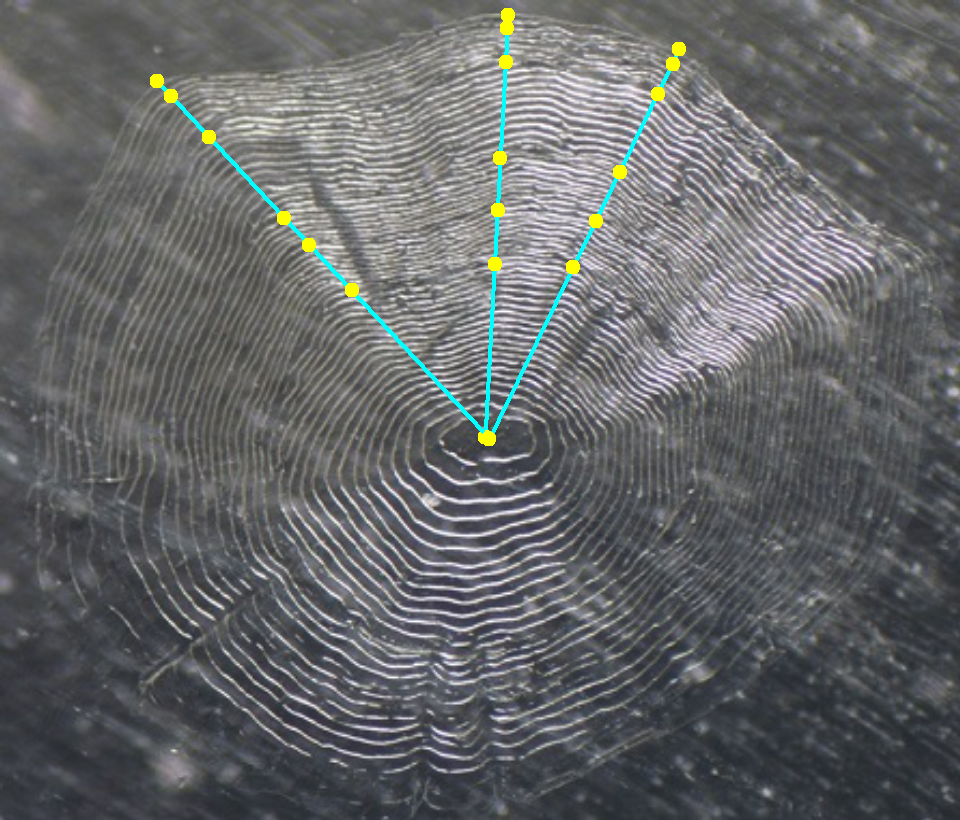
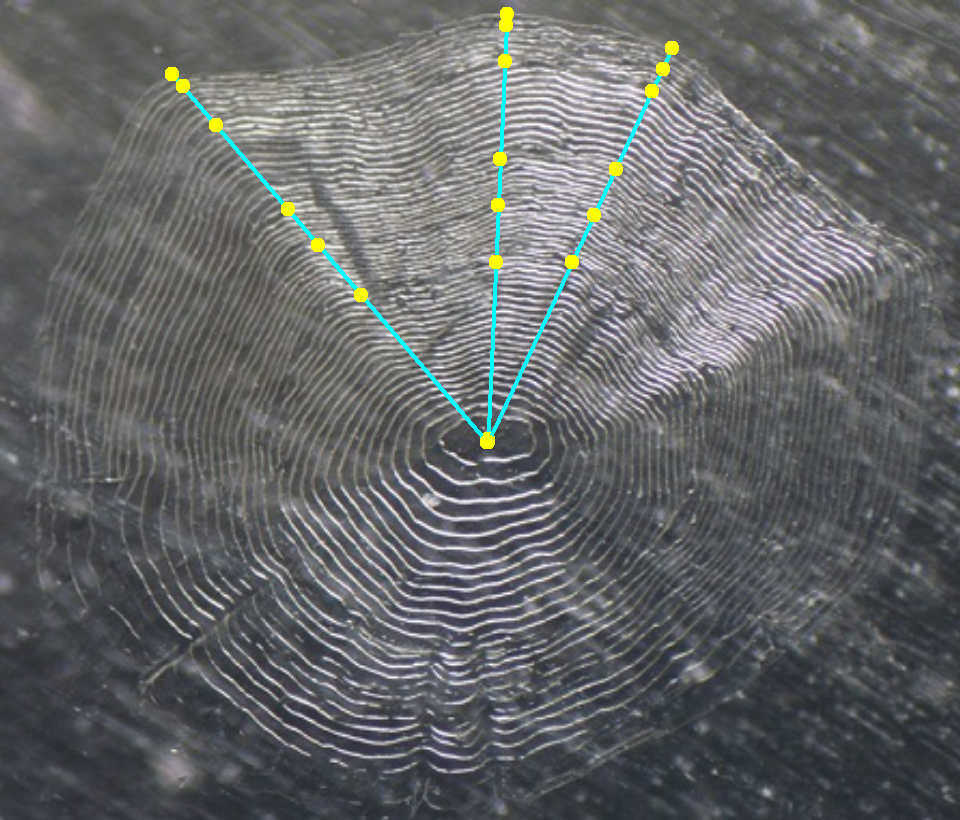
Updated CollectRadii vignette and webpage

diff --git a/docs/articles/MeasureRadii/collectRadiiData.html b/docs/articles/MeasureRadii/collectRadiiData.html
@@ -95,7 +95,7 @@
       <h1>Collect radial measurements from a calcified structure by interactively selecting annuli</h1>
                         <h4 class="author">Derek H. Ogle</h4>
             
-            <h4 class="date">2018-06-10</h4>
+            <h4 class="date">2018-06-12</h4>
       
       
       <div class="hidden name"><code>collectRadiiData.Rmd</code></div>
@@ -182,8 +182,6 @@
 <li>
 <code>description=</code>: Detailed description about the structure. This will be saved in the R data file and could be extracted in the future. For example, one may use <code>description="Kiyi scale read once by Ogle on 22-Apr-18"</code> to provide more information about the structure reading.</li>
 <li>
-<code>sepWindow=</code>: A logical that indicates whether the image should be opened in a separate window (<code>sepWindow=TRUE</code>) or not (<code>sepWindow=FALSE</code>). The default is <code>sepWindow=TRUE</code>, as opening the image in a separate window allows it to conform to its native aspect ratio, which is important when meausuring distances on the image.</li>
-<li>
 <code>windowSize=</code>: A value that sets the size of the separate window (only used if <code>sepWindow=TRUE</code>). This value will become the larger of the two dimensions, with the other value proportionate so that the original aspect ratio is maintained. Use <code>windowSize=</code> to “zoom in” on an image. Note that the default is <code>windowSize=7</code>; so values larger than 7 represent a “zooming in.”</li>
 </ul>
 <p>Finally, note that the R data file that will be created after the annuli have been selected will have the same name as the image file<a href="#fn7" class="footnoteRef" id="fnref7"><sup>7</sup></a> but including the suffix optionally provided in <code>suffix=</code>. If nothing is given in <code>suffix=</code>, then a suffix will be created from <code>reading=</code> (if it exists). For example, if the structure image file was named “Scale_1.jpg”, then the resultant R data file will be named “Scale_1_DHO.rds” if <code>reading="DHO"</code> or “Scale_1_TESTING.rds” if <code>reading="DHO"</code> and <code>suffix="TESTING"</code>.</p>
@@ -229,7 +227,7 @@
 <img src="figures/oto140306_D.jpg">
 </div>
 <p> </p>
-<p>When you have finished selecting points, information about your selections, including the calculated radial measurements, are saved to the R data file. The contents of this file are described further <a href="http://derekogle.com/RFishBC/reference/digitizeRadii.html#value">here</a>.</p>
+<p>When you have finished selecting points, the image window is closed<a href="#fn12" class="footnoteRef" id="fnref12"><sup>12</sup></a> and information about your selections, including the calculated radial measurements, are saved to the R data file. The contents of this file are described further <a href="http://derekogle.com/RFishBC/reference/digitizeRadii.html#value">here</a>.</p>
 <p> </p>
 <p> </p>
 <hr>
@@ -257,20 +255,20 @@
 <div id="data-from-one-structure" class="section level1">
 <h1 class="hasAnchor">
 <a href="#data-from-one-structure" class="anchor"></a>Data from One Structure</h1>
-<p>The radial measurements from one structure may be seen by submitting the R data file name to <code><a href="../../reference/combineData.html">combineData()</a></code>.<a href="#fn12" class="footnoteRef" id="fnref12"><sup>12</sup></a> Note that by default the radial measurement that includes the “plus-growth” will be omitted (as this radial measurement is equal to the total radial measurement and is thus redundant). To include the radial measurement with “plus-growth” then use <code>deletePlusGrowth=FALSE</code>.</p>
+<p>The radial measurements from one structure may be seen by submitting the R data file name to <code><a href="../../reference/combineData.html">combineData()</a></code>.<a href="#fn13" class="footnoteRef" id="fnref13"><sup>13</sup></a> Note that by default the radial measurement that includes the “plus-growth” will be omitted (as this radial measurement is equal to the total radial measurement and is thus redundant). To include the radial measurement with “plus-growth” then use <code>deletePlusGrowth=FALSE</code>.</p>
 <div class="sourceCode"><pre class="sourceCode r"><code class="sourceCode r"><span class="kw"><a href="../../reference/combineData.html">combineData</a></span>(<span class="st">"Scale_1_DHO.rds"</span>)
 <span class="co">#&gt;   id reading agecap ann       rad    radcap</span>
-<span class="co">#&gt; 1  1     DHO      5   1 0.2111413 0.5146925</span>
-<span class="co">#&gt; 2  1     DHO      5   2 0.2773676 0.5146925</span>
-<span class="co">#&gt; 3  1     DHO      5   3 0.3402496 0.5146925</span>
-<span class="co">#&gt; 4  1     DHO      5   4 0.4571022 0.5146925</span>
-<span class="co">#&gt; 5  1     DHO      5   5 0.4989547 0.5146925</span></code></pre></div>
+<span class="co">#&gt; 1  1     DHO      5   1 0.2162106 0.5196574</span>
+<span class="co">#&gt; 2  1     DHO      5   2 0.2859774 0.5196574</span>
+<span class="co">#&gt; 3  1     DHO      5   3 0.3418130 0.5196574</span>
+<span class="co">#&gt; 4  1     DHO      5   4 0.4620804 0.5196574</span>
+<span class="co">#&gt; 5  1     DHO      5   5 0.5056708 0.5196574</span></code></pre></div>
 <p>By default the data are shown in “long” format where each row consists of one radial measurement and all radial measurements for an individual fish are distributed across several rows. The radial data can be shown in “wide” format where each rows consists of all the radial measurements (in separate columns) for an individual fish by including <code>outFormat="wide"</code>.</p>
 <div class="sourceCode"><pre class="sourceCode r"><code class="sourceCode r"><span class="kw"><a href="../../reference/combineData.html">combineData</a></span>(<span class="st">"Scale_1_DHO.rds"</span>,<span class="dt">outFormat=</span><span class="st">"wide"</span>)
-<span class="co">#&gt;   id reading agecap    radcap      rad1      rad2      rad3      rad4</span>
-<span class="co">#&gt; 1  1     DHO      5 0.5146925 0.2111413 0.2773676 0.3402496 0.4571022</span>
+<span class="co">#&gt;   id reading agecap    radcap      rad1      rad2     rad3      rad4</span>
+<span class="co">#&gt; 1  1     DHO      5 0.5196574 0.2162106 0.2859774 0.341813 0.4620804</span>
 <span class="co">#&gt;        rad5</span>
-<span class="co">#&gt; 1 0.4989547</span></code></pre></div>
+<span class="co">#&gt; 1 0.5056708</span></code></pre></div>
 <p> </p>
 <p> </p>
 <hr>
@@ -289,14 +287,14 @@
 <p>This list of names can be further filtered by including other key words for the filenames in <code>other=</code>. In this case, the list should be limited to those files with “Scale” in the name and those files with just “DHO” (i.e., exclude “DHO2”). Limiting to “DHO” required limiting to “DHO.”, but because the “.” is a special character it had to be preceded by “\”.</p>
 <div class="sourceCode"><pre class="sourceCode r"><code class="sourceCode r">( fns &lt;-<span class="st"> </span><span class="kw"><a href="../../reference/listFiles.html">listFiles</a></span>(<span class="st">"rds"</span>,<span class="dt">other=</span><span class="kw">c</span>(<span class="st">"Scale"</span>,<span class="st">"DHO</span><span class="ch">\\</span><span class="st">."</span>)) )
 <span class="co">#&gt; [1] "Scale_1_DHO.rds" "Scale_2_DHO.rds"</span></code></pre></div>
-<p>The result of <code><a href="../../reference/listFiles.html">listFiles()</a></code> should be saved to an object so that the names can be given to <code><a href="../../reference/combineData.html">combineData()</a></code> as shown below.<a href="#fn13" class="footnoteRef" id="fnref13"><sup>13</sup></a></p>
+<p>The result of <code><a href="../../reference/listFiles.html">listFiles()</a></code> should be saved to an object so that the names can be given to <code><a href="../../reference/combineData.html">combineData()</a></code> as shown below.<a href="#fn14" class="footnoteRef" id="fnref14"><sup>14</sup></a></p>
 <div class="sourceCode"><pre class="sourceCode r"><code class="sourceCode r">( dfrad &lt;-<span class="st"> </span><span class="kw"><a href="../../reference/combineData.html">combineData</a></span>(fns) )
 <span class="co">#&gt;    id reading agecap ann       rad    radcap</span>
-<span class="co">#&gt; 1   1     DHO      5   1 0.2111413 0.5146925</span>
-<span class="co">#&gt; 2   1     DHO      5   2 0.2773676 0.5146925</span>
-<span class="co">#&gt; 3   1     DHO      5   3 0.3402496 0.5146925</span>
-<span class="co">#&gt; 4   1     DHO      5   4 0.4571022 0.5146925</span>
-<span class="co">#&gt; 5   1     DHO      5   5 0.4989547 0.5146925</span>
+<span class="co">#&gt; 1   1     DHO      5   1 0.2162106 0.5196574</span>
+<span class="co">#&gt; 2   1     DHO      5   2 0.2859774 0.5196574</span>
+<span class="co">#&gt; 3   1     DHO      5   3 0.3418130 0.5196574</span>
+<span class="co">#&gt; 4   1     DHO      5   4 0.4620804 0.5196574</span>
+<span class="co">#&gt; 5   1     DHO      5   5 0.5056708 0.5196574</span>
 <span class="co">#&gt; 7   2     DHO      4   1 0.1369752 0.3948274</span>
 <span class="co">#&gt; 8   2     DHO      4   2 0.2083183 0.3948274</span>
 <span class="co">#&gt; 9   2     DHO      4   3 0.2958363 0.3948274</span>
@@ -304,10 +302,10 @@
 <p>Again, the data can be shown in “wide” format by including <code>outFormat="wide"</code>.</p>
 <div class="sourceCode"><pre class="sourceCode r"><code class="sourceCode r">( dfrad2 &lt;-<span class="st"> </span><span class="kw"><a href="../../reference/combineData.html">combineData</a></span>(fns,<span class="dt">outFormat=</span><span class="st">"wide"</span>) )
 <span class="co">#&gt;   id reading agecap    radcap      rad1      rad2      rad3      rad4</span>
-<span class="co">#&gt; 1  1     DHO      5 0.5146925 0.2111413 0.2773676 0.3402496 0.4571022</span>
+<span class="co">#&gt; 1  1     DHO      5 0.5196574 0.2162106 0.2859774 0.3418130 0.4620804</span>
 <span class="co">#&gt; 2  2     DHO      4 0.3948274 0.1369752 0.2083183 0.2958363 0.3533809</span>
 <span class="co">#&gt;        rad5</span>
-<span class="co">#&gt; 1 0.4989547</span>
+<span class="co">#&gt; 1 0.5056708</span>
 <span class="co">#&gt; 2        NA</span></code></pre></div>
 <p> </p>
 <p> </p>
@@ -316,7 +314,7 @@
 <div id="outputdata" class="section level1">
 <h1 class="hasAnchor">
 <a href="#outputdata" class="anchor"></a>Output Data File</h1>
-<p>Other information about the fish (e.g., location of capture, length, sex) is likely held in a separate file. Below, example “other” data are loaded into the <code>dffish</code> data.frame. Note that the <code>id</code> variable created from processing the structure images above are characters. In this case, <code>read.csv()</code> reads the <code>id</code> variable from the external data file as numeric because the unique IDs were simple numbers. The second line of code below converts these numeric IDs to characters so that this data.frame can be joined with the radial measurements data.frame from above.<a href="#fn14" class="footnoteRef" id="fnref14"><sup>14</sup></a></p>
+<p>Other information about the fish (e.g., location of capture, length, sex) is likely held in a separate file. Below, example “other” data are loaded into the <code>dffish</code> data.frame. Note that the <code>id</code> variable created from processing the structure images above are characters. In this case, <code>read.csv()</code> reads the <code>id</code> variable from the external data file as numeric because the unique IDs were simple numbers. The second line of code below converts these numeric IDs to characters so that this data.frame can be joined with the radial measurements data.frame from above.<a href="#fn15" class="footnoteRef" id="fnref15"><sup>15</sup></a></p>
 <div class="sourceCode"><pre class="sourceCode r"><code class="sourceCode r">dffish &lt;-<span class="st"> </span><span class="kw">read.csv</span>(<span class="st">"FishData.csv"</span>,<span class="dt">stringsAsFactors=</span><span class="ot">FALSE</span>) <span class="op">%&gt;%</span>
 <span class="st">  </span><span class="kw">mutate</span>(<span class="dt">id=</span><span class="kw">as.character</span>(id))</code></pre></div>
 <p>The data in the <code>dffish</code> and <code>dfrad</code> data.frames are then joined by the common <code>id</code> variable using <code>inner_join()</code>.</p>
@@ -324,11 +322,11 @@
 <span class="st">  </span><span class="kw">inner_join</span>(dfrad,<span class="dt">by=</span><span class="st">"id"</span>)
 fishdat
 <span class="co">#&gt;   id  loc sex len reading agecap ann       rad    radcap</span>
-<span class="co">#&gt; 1  1 MI-5   M 189     DHO      5   1 0.2111413 0.5146925</span>
-<span class="co">#&gt; 2  1 MI-5   M 189     DHO      5   2 0.2773676 0.5146925</span>
-<span class="co">#&gt; 3  1 MI-5   M 189     DHO      5   3 0.3402496 0.5146925</span>
-<span class="co">#&gt; 4  1 MI-5   M 189     DHO      5   4 0.4571022 0.5146925</span>
-<span class="co">#&gt; 5  1 MI-5   M 189     DHO      5   5 0.4989547 0.5146925</span>
+<span class="co">#&gt; 1  1 MI-5   M 189     DHO      5   1 0.2162106 0.5196574</span>
+<span class="co">#&gt; 2  1 MI-5   M 189     DHO      5   2 0.2859774 0.5196574</span>
+<span class="co">#&gt; 3  1 MI-5   M 189     DHO      5   3 0.3418130 0.5196574</span>
+<span class="co">#&gt; 4  1 MI-5   M 189     DHO      5   4 0.4620804 0.5196574</span>
+<span class="co">#&gt; 5  1 MI-5   M 189     DHO      5   5 0.5056708 0.5196574</span>
 <span class="co">#&gt; 6  2 MI-6   F 210     DHO      4   1 0.1369752 0.3948274</span>
 <span class="co">#&gt; 7  2 MI-6   F 210     DHO      4   2 0.2083183 0.3948274</span>
 <span class="co">#&gt; 8  2 MI-6   F 210     DHO      4   3 0.2958363 0.3948274</span>
@@ -338,12 +336,12 @@ fishdat
 <span class="st">  </span><span class="kw">inner_join</span>(dfrad2,<span class="dt">by=</span><span class="st">"id"</span>)
 fishdat2
 <span class="co">#&gt;   id  loc sex len reading agecap    radcap      rad1      rad2      rad3</span>
-<span class="co">#&gt; 1  1 MI-5   M 189     DHO      5 0.5146925 0.2111413 0.2773676 0.3402496</span>
+<span class="co">#&gt; 1  1 MI-5   M 189     DHO      5 0.5196574 0.2162106 0.2859774 0.3418130</span>
 <span class="co">#&gt; 2  2 MI-6   F 210     DHO      4 0.3948274 0.1369752 0.2083183 0.2958363</span>
 <span class="co">#&gt;        rad4      rad5</span>
-<span class="co">#&gt; 1 0.4571022 0.4989547</span>
+<span class="co">#&gt; 1 0.4620804 0.5056708</span>
 <span class="co">#&gt; 2 0.3533809        NA</span></code></pre></div>
-<p>Either file can be written to a “comma-separated values” (CSV) file<a href="#fn15" class="footnoteRef" id="fnref15"><sup>15</sup></a> with <code>write.csv()</code> using the R object name (e.g., <code>fishdat</code> or <code>fishdat2</code>) as the first argument and a name for the file in <code>file=</code>. Additionally, I prefer to have non-quoted values by using <code>quote=FALSE</code> and no row names by using <code>row.names=FALSE</code>. For example, the “one-measurement-per-line” data can be output to “Kiyi2014_BCs.csv” as follows.</p>
+<p>Either file can be written to a “comma-separated values” (CSV) file<a href="#fn16" class="footnoteRef" id="fnref16"><sup>16</sup></a> with <code>write.csv()</code> using the R object name (e.g., <code>fishdat</code> or <code>fishdat2</code>) as the first argument and a name for the file in <code>file=</code>. Additionally, I prefer to have non-quoted values by using <code>quote=FALSE</code> and no row names by using <code>row.names=FALSE</code>. For example, the “one-measurement-per-line” data can be output to “Kiyi2014_BCs.csv” as follows.</p>
 <div class="sourceCode"><pre class="sourceCode r"><code class="sourceCode r"><span class="kw">write.csv</span>(fishdat,<span class="dt">file=</span><span class="st">"Kiyi2014_BCs.csv"</span>,<span class="dt">quote=</span><span class="ot">FALSE</span>,<span class="dt">row.names=</span><span class="ot">FALSE</span>)</code></pre></div>
 <p> </p>
 <p> </p>
@@ -366,10 +364,11 @@ fishdat2
 <li id="fn9"><p>The last selected point can be deleted by pressing the ‘d’ or ‘r’ keys. This can be done multiple times such that the last number of selections can be deleted. The deleted points will be marked with the plotting character and color in <code>pch.del=</code> and <code>col.del=</code> (defaults to a red circle with an ‘x’ in it).<a href="#fnref9">↩</a></p></li>
 <li id="fn10"><p>Thus, <code><a href="../../reference/findScalingFactor.html">findScalingFactor()</a></code> would be run prior to <code><a href="../../reference/digitizeRadii.html">digitizeRadii()</a></code>.<a href="#fnref10">↩</a></p></li>
 <li id="fn11"><p>The last selected point can be deleted by pressing the ‘d’ or ‘r’ keys. This can be done multiple times such that the last number of selections can be deleted. The deleted points will be marked with the plotting character and color in <code>pch.del=</code> and <code>col.del=</code> (defaults to a red circle with an ‘x’ in it).<a href="#fnref11">↩</a></p></li>
-<li id="fn12"><p>If no file name is given, then a dialog box will appear from which the data file can be selected. It is also assumed that the file is in the current working directory.<a href="#fnref12">↩</a></p></li>
-<li id="fn13"><p>If no file names are given, then a dialog box will appear from which multiple data files can be selected.<a href="#fnref13">↩</a></p></li>
-<li id="fn14"><p>The two files cannot be joined by the “id” variable if the “id” variables are of different types (e.g., character and numeric) in the two files. Thus, as shown here, they must be coerced to be the same type. This line of code would no be needed if the “id” variables were of the same type in the two files as would likely occur if the “id” variable was not simply numbers.<a href="#fnref14">↩</a></p></li>
-<li id="fn15"><p>CSV files are small, portable, and can be opened directly in most spreadsheet softwares.<a href="#fnref15">↩</a></p></li>
+<li id="fn12"><p>The image window is closed by default when “f” is pushed after the last annulus is selected. The window may be kept open by using <code>closeWindow=FALSE</code> in the call to <code><a href="../../reference/digitizeRadii.html">digitizeRadii()</a></code>.<a href="#fnref12">↩</a></p></li>
+<li id="fn13"><p>If no file name is given, then a dialog box will appear from which the data file can be selected. It is also assumed that the file is in the current working directory.<a href="#fnref13">↩</a></p></li>
+<li id="fn14"><p>If no file names are given, then a dialog box will appear from which multiple data files can be selected.<a href="#fnref14">↩</a></p></li>
+<li id="fn15"><p>The two files cannot be joined by the “id” variable if the “id” variables are of different types (e.g., character and numeric) in the two files. Thus, as shown here, they must be coerced to be the same type. This line of code would no be needed if the “id” variables were of the same type in the two files as would likely occur if the “id” variable was not simply numbers.<a href="#fnref15">↩</a></p></li>
+<li id="fn16"><p>CSV files are small, portable, and can be opened directly in most spreadsheet softwares.<a href="#fnref16">↩</a></p></li>
 </ol>
 </div>
   </div>

diff --git a/docs/reference/RFBCoptions.html b/docs/reference/RFBCoptions.html
@@ -164,6 +164,7 @@ Additionally, a user may want to change a number of these arguments from their d
 <li><p><code>edgeIsAnnulus</code>: A single logical that indicates whether the structure margin should be considered an annulus (<code>TRUE</code>) or not (<code>FALSE</code>). Use <code>FALSE</code> if growth between the last annulus and the structure margin is not a complete year's worth of growth (i.e., &#8220;plus-growth&#8221;). Defaults to <code>NULL</code> which means that the user must set this value. Used in <code><a href='digitizeRadii.html'>digitizeRadii</a></code>.</p></li>
 <li><p><code>sepWindow</code>: A single logical that indicates whether the structure image should be opened in a separate window (<code>=TRUE</code>) or not (<code>=FALSE</code>). Defaults to <code>TRUE</code>. Used in <code><a href='digitizeRadii.html'>digitizeRadii</a></code>, <code><a href='showDigitizedImage.html'>showDigitizedImage</a></code>, and <code><a href='findScalingFactor.html'>findScalingFactor</a></code>.</p></li>
 <li><p><code>windowSize</code>: A single numeric used to set the size of the largest dimension for the window in which the structure image is opened if <code>sepWindow=TRUE</code>. This size will be the width for wider images and the height for taller images. The other dimension will be set relative to this so that the image is displayed in its native aspect ratio. Defaults to 7 inches. Used in <code><a href='digitizeRadii.html'>digitizeRadii</a></code> and <code><a href='findScalingFactor.html'>findScalingFactor</a></code>.</p></li>
+<li><p><code>closeWindow</code>: A single logical that indicates whether the structure image should be closed (if it was in a separate window) (<code>=TRUE</code>) or not (<code>=FALSE</code>). Defaults to <code>TRUE</code>. Used in <code><a href='digitizeRadii.html'>digitizeRadii</a></code> and <code><a href='findScalingFactor.html'>findScalingFactor</a></code>.</p></li>
 <li><p><code>popID</code>: A single logical that indicates if the fish ID dialog box (only on Windows if no <code>ID</code> is given in <code><a href='digitizeRadii.html'>digitizeRadii</a></code>) is populated with the image file name sans the extension. This is useful for when the image name is the fish ID. Defaults to <code>TRUE</code>. Used in <code><a href='digitizeRadii.html'>digitizeRadii</a></code>.</p></li>
 <li><p><code>scalingFactor</code>: A single numeric used to convert measurements on the structure image to actual measurements on the structure. Measurements on the structure image will be multiplied by this value. Ignored if <code>scaleBar=TRUE</code>. Defaults to <code>1</code>. Used in <code><a href='digitizeRadii.html'>digitizeRadii</a></code>.</p></li>
 <li><p><code>scaleBar</code>: A single logical that indicates whether the user will be prompted to select the endpoints of a scale-bar on the structure image. If <code>TRUE</code>, then must also use <code>scaleBarLength</code>. If <code>FALSE</code>, then consider using <code>scalingFactor</code>. Defaults to <code>FALSE</code>. Used in <code><a href='digitizeRadii.html'>digitizeRadii</a></code>.</p></li>
@@ -218,6 +219,9 @@ Additionally, a user may want to change a number of these arguments from their d
 #&gt; 
 #&gt; $windowSize
 #&gt; [1] 7
+#&gt; 
+#&gt; $closeWindow
+#&gt; [1] TRUE
 #&gt; 
 #&gt; $popID
 #&gt; [1] TRUE

diff --git a/docs/reference/bcFuns.html b/docs/reference/bcFuns.html
@@ -193,7 +193,7 @@
 #&gt;         if (verbose) DONE("Using the Dahl-Lea model.")
 #&gt;         (Ri/Rcap)*Lcap
 #&gt;       }
-#&gt; &lt;environment: 0x1b26b890&gt;</div><div class='input'><span class='fu'>bcm1</span>(<span class='fl'>20</span>,<span class='fl'>10</span>,<span class='fl'>40</span>)</div><div class='output co'>#&gt; &lt;U+2714&gt; Using the Dahl-Lea model.</div><div class='output co'>#&gt; [1] 5</div><div class='input'>
+#&gt; &lt;environment: 0x1bde5b10&gt;</div><div class='input'><span class='fu'>bcm1</span>(<span class='fl'>20</span>,<span class='fl'>10</span>,<span class='fl'>40</span>)</div><div class='output co'>#&gt; &lt;U+2714&gt; Using the Dahl-Lea model.</div><div class='output co'>#&gt; [1] 5</div><div class='input'>
 <span class='co'>## Example with dummy length-at-cap, radii-at-cap, and radii-at-age</span>
 <span class='no'>lencap</span> <span class='kw'>&lt;-</span> <span class='fu'>c</span>(<span class='fl'>100</span>,<span class='fl'>100</span>,<span class='fl'>100</span>,<span class='fl'>150</span>,<span class='fl'>150</span>)
 <span class='no'>radcap</span> <span class='kw'>&lt;-</span> <span class='fu'>c</span>(<span class='fl'>20</span>,<span class='fl'>20</span>,<span class='fl'>20</span>,<span class='fl'>30</span>,<span class='fl'>30</span>)
@@ -203,7 +203,7 @@
 #&gt;         if (verbose) DONE("Using the Fraser-Lee model with a=",a,".")
 #&gt;         a+(Lcap-a)*(Ri/Rcap)
 #&gt;       }
-#&gt; &lt;environment: 0x1b15a100&gt;</div><div class='input'><span class='fu'>bcm2</span>(<span class='no'>lencap</span>,<span class='no'>rad</span>,<span class='no'>radcap</span>,<span class='fl'>2</span>)  <span class='co'># demonstrated with a=2</span></div><div class='output co'>#&gt; &lt;U+2714&gt; Using the Fraser-Lee model with a=2.</div><div class='output co'>#&gt; [1]  26.5000  51.0000  75.5000  76.0000 125.3333</div><div class='input'>
+#&gt; &lt;environment: 0x1bf51e28&gt;</div><div class='input'><span class='fu'>bcm2</span>(<span class='no'>lencap</span>,<span class='no'>rad</span>,<span class='no'>radcap</span>,<span class='fl'>2</span>)  <span class='co'># demonstrated with a=2</span></div><div class='output co'>#&gt; &lt;U+2714&gt; Using the Fraser-Lee model with a=2.</div><div class='output co'>#&gt; [1]  26.5000  51.0000  75.5000  76.0000 125.3333</div><div class='input'>
 </div></pre>
   </div>
   <div class="col-md-3 hidden-xs hidden-sm" id="sidebar">

diff --git a/docs/reference/digitizeRadii.html b/docs/reference/digitizeRadii.html
@@ -135,10 +135,10 @@
     </div>
 
     <pre class="usage"><span class='fu'>digitizeRadii</span>(<span class='no'>img</span>, <span class='no'>id</span>, <span class='no'>reading</span>, <span class='no'>suffix</span>, <span class='no'>description</span>, <span class='no'>edgeIsAnnulus</span>, <span class='no'>popID</span>,
-  <span class='no'>sepWindow</span>, <span class='no'>windowSize</span>, <span class='no'>scaleBar</span>, <span class='no'>scaleBarLength</span>, <span class='no'>col.scaleBar</span>, <span class='no'>lwd.scaleBar</span>,
-  <span class='no'>scalingFactor</span>, <span class='no'>showTransect</span>, <span class='no'>snap2Transect</span>, <span class='no'>col.transect</span>, <span class='no'>lwd.transect</span>,
-  <span class='no'>pch.sel</span>, <span class='no'>col.sel</span>, <span class='no'>cex.sel</span>, <span class='no'>pch.del</span>, <span class='no'>col.del</span>, <span class='no'>showInfo</span>, <span class='no'>pos.info</span>, <span class='no'>cex.info</span>,
-  <span class='no'>col.info</span>)</pre>
+  <span class='no'>sepWindow</span>, <span class='no'>windowSize</span>, <span class='no'>closeWindow</span>, <span class='no'>scaleBar</span>, <span class='no'>scaleBarLength</span>, <span class='no'>col.scaleBar</span>,
+  <span class='no'>lwd.scaleBar</span>, <span class='no'>scalingFactor</span>, <span class='no'>showTransect</span>, <span class='no'>snap2Transect</span>, <span class='no'>col.transect</span>,
+  <span class='no'>lwd.transect</span>, <span class='no'>pch.sel</span>, <span class='no'>col.sel</span>, <span class='no'>cex.sel</span>, <span class='no'>pch.del</span>, <span class='no'>col.del</span>, <span class='no'>showInfo</span>, <span class='no'>pos.info</span>,
+  <span class='no'>cex.info</span>, <span class='no'>col.info</span>)</pre>
     
     <h2 class="hasAnchor" id="arguments"><a class="anchor" href="#arguments"></a>Arguments</h2>
     <table class="ref-arguments">
@@ -177,6 +177,10 @@
     </tr>
     <tr>
       <th>windowSize</th>
+      <td><p>See details in <code><a href='RFBCoptions.html'>RFBCoptions</a></code>.</p></td>
+    </tr>
+    <tr>
+      <th>closeWindow</th>
       <td><p>See details in <code><a href='RFBCoptions.html'>RFBCoptions</a></code>.</p></td>
     </tr>
     <tr>

diff --git a/docs/reference/findScalingFactor.html b/docs/reference/findScalingFactor.html
@@ -134,8 +134,8 @@
     
     </div>
 
-    <pre class="usage"><span class='fu'>findScalingFactor</span>(<span class='no'>img</span>, <span class='no'>knownLength</span>, <span class='no'>sepWindow</span>, <span class='no'>windowSize</span>, <span class='no'>col.scaleBar</span>,
-  <span class='no'>lwd.scaleBar</span>, <span class='no'>pch.sel</span>, <span class='no'>col.sel</span>, <span class='no'>cex.sel</span>, <span class='no'>pch.del</span>, <span class='no'>col.del</span>)</pre>
+    <pre class="usage"><span class='fu'>findScalingFactor</span>(<span class='no'>img</span>, <span class='no'>knownLength</span>, <span class='no'>sepWindow</span>, <span class='no'>windowSize</span>, <span class='no'>closeWindow</span>,
+  <span class='no'>col.scaleBar</span>, <span class='no'>lwd.scaleBar</span>, <span class='no'>pch.sel</span>, <span class='no'>col.sel</span>, <span class='no'>cex.sel</span>, <span class='no'>pch.del</span>, <span class='no'>col.del</span>)</pre>
     
     <h2 class="hasAnchor" id="arguments"><a class="anchor" href="#arguments"></a>Arguments</h2>
     <table class="ref-arguments">
@@ -154,6 +154,10 @@
     </tr>
     <tr>
       <th>windowSize</th>
+      <td><p>See details in <code><a href='RFBCoptions.html'>RFBCoptions</a></code>.</p></td>
+    </tr>
+    <tr>
+      <th>closeWindow</th>
       <td><p>See details in <code><a href='RFBCoptions.html'>RFBCoptions</a></code>.</p></td>
     </tr>
     <tr>

diff --git a/docs/news/index.html b/docs/news/index.html
@@ -133,6 +133,12 @@
 <li>Added hex sticker.</li>
 <li>Added workflow vignette.</li>
 <li>
+<code><a href="../reference/digitizeRadii.html">digitizeRadii()</a></code>: Modified. Added <code>closeWindow=</code> (addresses <a href="https://github.com/droglenc/RFishBC/issues/14">#14</a>). Changed so that the rownames of the <code>pts</code> data.frame in the returned object includes “center” and “edge.”</li>
+<li>
+<code><a href="../reference/findScalingFactor.html">findScalingFactor()</a></code>: Modified. Added <code>closeWindow=</code> (addresses <a href="https://github.com/droglenc/RFishBC/issues/14">#14</a>).</li>
+<li>
+<code><a href="../reference/RFBCoptions.html">RFBCoptions()</a></code>: Modified. Added <code>closeWindow=</code> (addresses <a href="https://github.com/droglenc/RFishBC/issues/14">#14</a>).</li>
+<li>
 <code><a href="../reference/showDigitizedImage.html">showDigitizedImage()</a></code>: Modified. Fixed bug in <code>iShowAnnuliLabels()</code> (addressed <a href="https://github.com/droglenc/RFishBC/issues/12">#12</a>; thanks to <a href="https://github.com/Otoliths">Liuyong Ding</a>).</li>
 </ul>
 </div>

diff --git a/docs/articles/MeasureRadii/seeRadiiData.html b/docs/articles/MeasureRadii/seeRadiiData.html
@@ -95,7 +95,7 @@
       <h1>Visualize Points Selected on a Calcified Structure</h1>
                         <h4 class="author">Derek H. Ogle</h4>
             
-            <h4 class="date">2018-06-10</h4>
+            <h4 class="date">2018-06-12</h4>
       
       
       <div class="hidden name"><code>seeRadiiData.Rmd</code></div>

diff --git a/docs/articles/Workflow/BCWorkflow.html b/docs/articles/Workflow/BCWorkflow.html
@@ -95,7 +95,7 @@
       <h1>Suggested Workflow for Back-Calculation</h1>
                         <h4 class="author">Derek H. Ogle</h4>
             
-            <h4 class="date">2018-06-10</h4>
+            <h4 class="date">2018-06-12</h4>
       
       
       <div class="hidden name"><code>BCWorkflow.Rmd</code></div>

diff --git a/docs/articles/BCIntro/BCIntro.html b/docs/articles/BCIntro/BCIntro.html
@@ -95,7 +95,7 @@
       <h1>Short Introduction to Back-Calculation</h1>
                         <h4 class="author">Derek H. Ogle</h4>
             
-            <h4 class="date">2018-06-10</h4>
+            <h4 class="date">2018-06-12</h4>
       
       
       <div class="hidden name"><code>BCIntro.Rmd</code></div>

diff --git a/docs/articles/BCCalc/BCCalc_old.html b/docs/articles/BCCalc/BCCalc_old.html
@@ -95,7 +95,7 @@
       <h1>Compute Back-Calculated Lengths</h1>
                         <h4 class="author">Derek H. Ogle</h4>
             
-            <h4 class="date">2018-06-10</h4>
+            <h4 class="date">2018-06-12</h4>
       
       
       <div class="hidden name"><code>BCCalc_old.Rmd</code></div>

diff --git a/docs/articles/BCCalc/BCCalc.html b/docs/articles/BCCalc/BCCalc.html
@@ -95,7 +95,7 @@
       <h1>Compute Back-Calculated Lengths</h1>
                         <h4 class="author">Derek H. Ogle</h4>
             
-            <h4 class="date">2018-06-10</h4>
+            <h4 class="date">2018-06-12</h4>
       
       
       <div class="hidden name"><code>BCCalc.Rmd</code></div>
